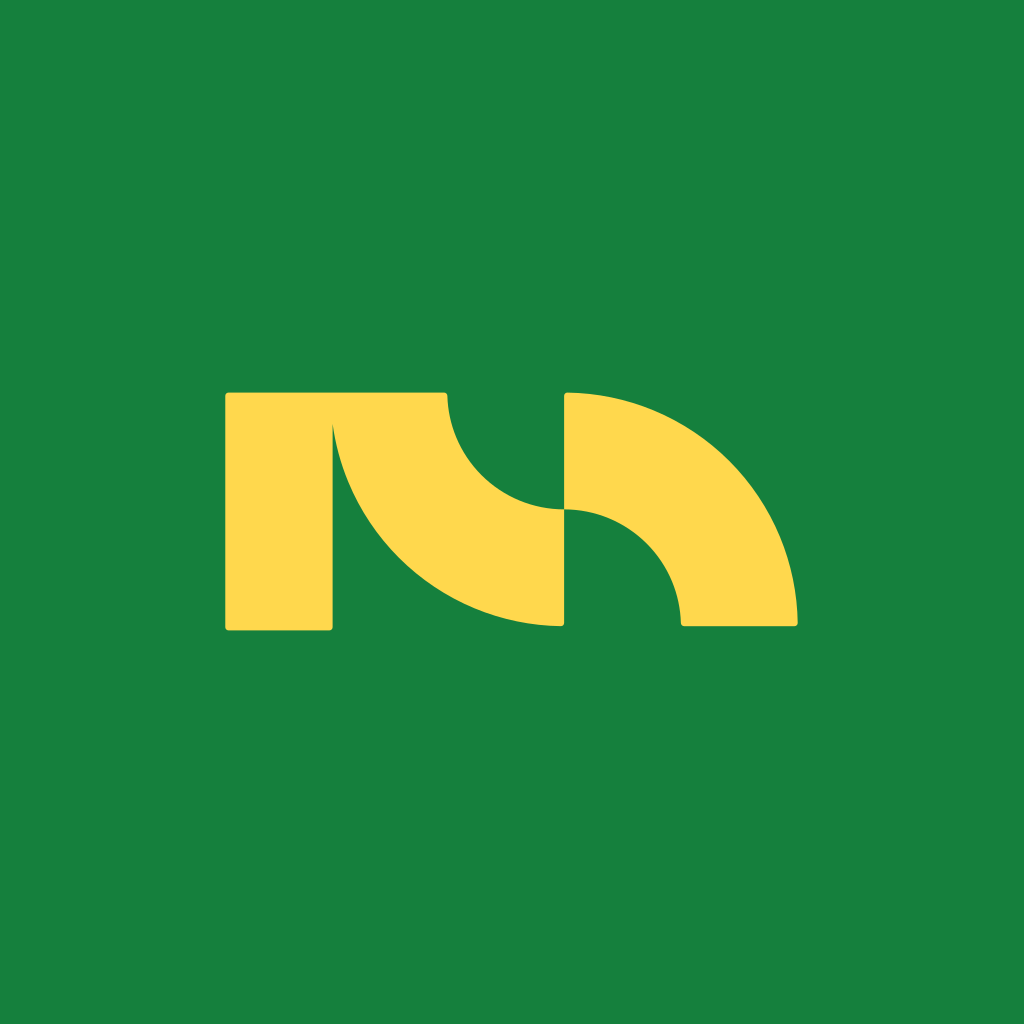
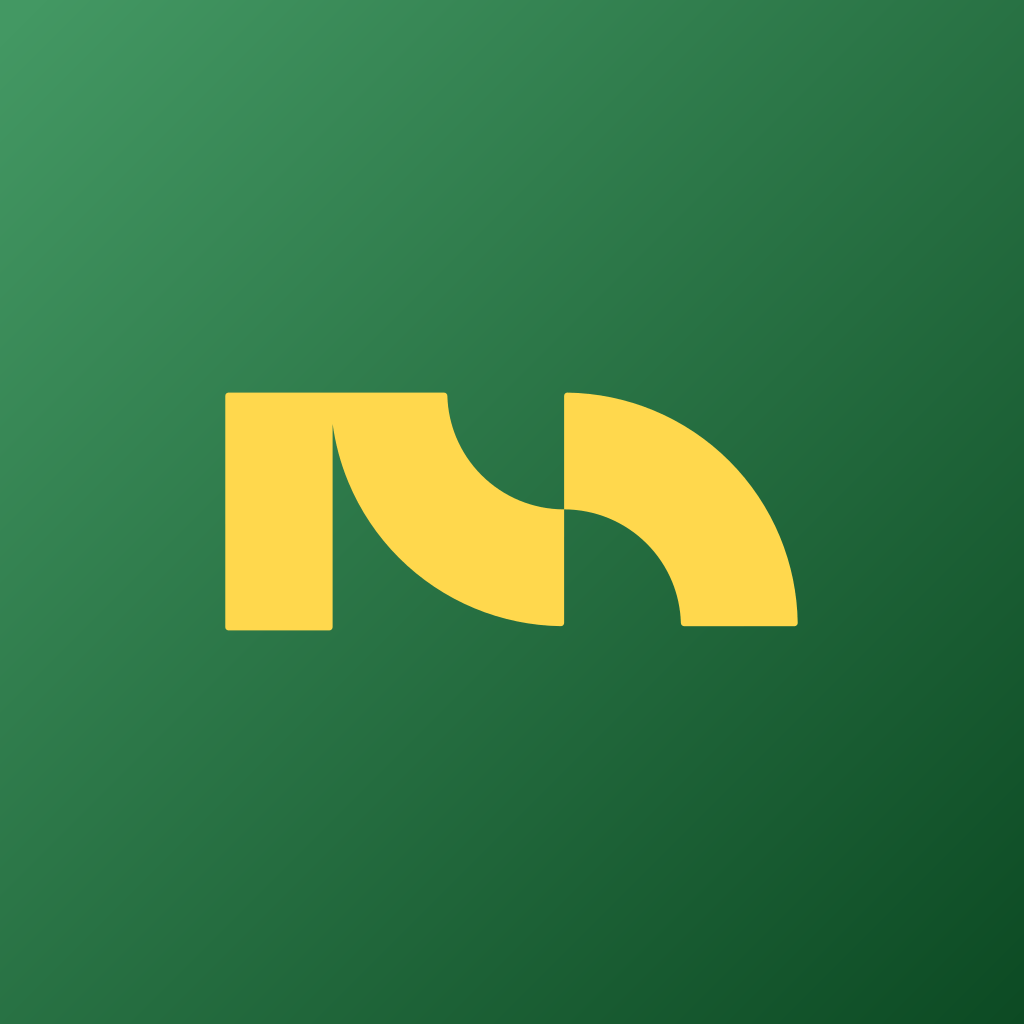
feat(aparencia): bolinhas de duas cores, prévia em wireframe, e o ícone com gradiente
⚠ A GRADE ERA DE ÍCONES, e isso era bonito e ruim para escolher: doze
quadrados com a mesma marca dentro obrigam a comparar doze desenhos
iguais para achar duas cores. A bolinha partida ao meio — em cima a cor
que age, embaixo a do alcançado — diz a mesma coisa num relance, e é a
forma que qualquer pessoa já reconhece de "esta é a cor". Corte
horizontal e não diagonal: assim as duas metades têm o mesmo peso, que é
o que elas têm no aplicativo.

Quatro por linha, doze no total — entraram Cacau e Sálvia, que eram os
dois climas que faltavam: um marrom quente e um verde lavado.

O ÍCONE NÃO SUMIU, SUBIU PARA A PRÉVIA, onde ele é o que de fato é: uma
consequência da escolha, e não o seletor dela.

A PRÉVIA É WIREFRAME DE PROPÓSITO. Ela não tenta parecer o aplicativo:
mostra ONDE cada cor cai. Barra cinza é texto, retângulo cheio é botão,
pastilha é o alcançado, e a faixa de cima é a aurora com o véu por cima —
a mesma composição das telas de verdade. Uma miniatura realista
competiria com a coisa real e perderia; um esqueleto responde a única
pergunta que a tela faz.

E O ÍCONE GANHOU GRADIENTE. Chapado ele ficava plano no meio dos outros
da tela inicial, que hoje são quase todos volumétricos. A rampa é a
diagonal da cor de ação, o mesmo tratamento do painel da Jornada, com a
marca na cor do alcançado — assim o ícone carrega as duas cores da
paleta, e não só uma. As proporções são calculadas duas vezes, no
gerador e na prévia, e isso está anotado nos dois: prévia e arquivo
[…]

diff --git a/src/app/aparencia.tsx b/src/app/aparencia.tsx
@@ -1,35 +1,42 @@
 import React from 'react';
-import { View, Pressable } from 'react-native';
+import { View, Pressable, StyleSheet } from 'react-native';
+import { Image } from 'expo-image';
+import { LinearGradient } from 'expo-linear-gradient';
 import Svg, { Path } from 'react-native-svg';
 import { useStore } from '../logic/store';
-import { trocarIcone, suportaIcone } from '../logic/icone';
+import { trocarIcone } from '../logic/icone';
+import { useAurora } from '../ui/aurora';
 import { D_SIMBOLO, RAZAO_SIMBOLO } from '../ui/marca';
 import { Txt, Row } from '../ui/kit';
-import { TelaInterna, Titulao, Bloco, Aviso } from '../ui/internas';
+import { TelaInterna, Titulao, Bloco } from '../ui/internas';
 import { Icon } from '../ui/Icon';
 import { useTheme } from '../ui/useTheme';
-import { PALETAS, paletaDe, radius, font } from '../theme';
+import { PALETAS, paletaDe, alfa, mix, radius, font } from '../theme';
 import type { Tema } from '../logic/seed';
 
 /* ============================================================
    APARÊNCIA
 
-   ⚠ A ESCOLHA ERA DE DUAS CORES SOLTAS — uma de ação e uma de alcançado
-   — e isso empurrava para a pessoa uma decisão que é de design. As duas
-   juntas dão vinte e cinco combinações, e algumas delas são ruins: cores
-   próximas fazem o botão que leva a algum lugar e a marca do que já foi
-   feito virarem a mesma coisa. Oferecer o erro como opção não é dar
-   liberdade.
+   ⚠ A ESCOLHA ERA DE DUAS CORES SOLTAS, e isso empurrava para a pessoa
+   uma decisão que é de design: ação e alcançado próximas fazem o botão
+   que leva a algum lugar e a marca do que já foi feito virarem a mesma
+   coisa. São doze paletas fechadas agora, cada uma um conjunto já olhado
+   junto.
 
-   Agora são dez paletas fechadas, e a forma de mostrá-las é o ÍCONE. Ele
-   não é ilustração da paleta: é literalmente o arquivo que vai para a
-   tela inicial do telefone se aquela for escolhida. A grade mostra o
-   resultado, e não uma representação dele.
+   ⚠ E A GRADE JÁ FOI DE ÍCONES. Cada opção era o ícone do aplicativo
+   naquela paleta — bonito, e ruim para escolher: doze quadrados com a
+   mesma marca dentro obrigam a comparar doze desenhos iguais para achar
+   duas cores. A bolinha partida ao meio diz a mesma coisa num relance, e
+   é a forma que qualquer pessoa já reconhece de "esta é a cor".
 
-   O ESQUEMA DE COR VEM ANTES, e ganhou "Sistema". Quem instala o app já
-   escolheu claro ou escuro uma vez, nos ajustes do telefone — repetir a
-   pergunta é ignorar a resposta que a pessoa já deu. Escolher aqui passa
-   a ser o gesto de quem quer o contrário do sistema.
+   O ÍCONE NÃO SUMIU: subiu para a prévia, onde ele é o que de fato é —
+   uma consequência da escolha, e não o seletor dela.
+
+   A PRÉVIA É WIREFRAME DE PROPÓSITO. Ela não tenta parecer o aplicativo:
+   tenta mostrar ONDE cada cor cai. Barra cinza é texto, retângulo cheio é
+   botão, pastilha é o alcançado, e a faixa de cima é a aurora com o véu
+   por cima. Uma miniatura realista competiria com a coisa real e perderia;
+   um esqueleto responde a única pergunta que a tela faz.
    ============================================================ */
 
 const MODOS: { id: Tema; nome: string; ic: string }[] = [
@@ -38,38 +45,45 @@ const MODOS: { id: Tema; nome: string; ic: string }[] = [
   { id: 'dark', nome: 'Escuro', ic: 'moon' },
 ];
 
-/* O ÍCONE DESENHADO, e não uma das dez imagens: a grade precisa responder
-   no toque, e carregar dez PNG de um megapixel para mostrar dez
-   quadradinhos seria pagar caro por nada. É o mesmo caminho que gerou os
-   arquivos. */
-function IconeDaPaleta({ fundo, marca, lado }: { fundo: string; marca: string; lado: number }) {
+/* O ÍCONE DESENHADO, com a mesma rampa e as mesmas proporções de
+   scripts/gerar-icones.mjs. Prévia e arquivo precisam ser o mesmo
+   desenho: senão a tela promete um ícone e o telefone mostra outro. */
+function IconeDaPaleta({ acao, marca, lado }: { acao: string; marca: string; lado: number }) {
   const largura = lado * 0.56;
   return (
-    <View style={{
-      width: lado, height: lado, borderRadius: lado * 0.225,
-      backgroundColor: fundo, alignItems: 'center', justifyContent: 'center',
-    }}>
+    <LinearGradient
+      colors={[mix(acao, '#FFFFFF', 0.2), mix(acao, '#000000', 0.42)]}
+      start={{ x: 0, y: 0 }}
+      end={{ x: 1, y: 1 }}
+      style={{
+        width: lado, height: lado, borderRadius: lado * 0.225,
+        alignItems: 'center', justifyContent: 'center',
+      }}
+    >
       <Svg width={largura} height={largura / RAZAO_SIMBOLO} viewBox="0 0 533 222">
         <Path d={D_SIMBOLO} fill={marca} />
       </Svg>
-    </View>
+    </LinearGradient>
   );
+}
+
+/** Uma barra de esqueleto — é o que representa texto na prévia. */
+function Barra({ larg, alt = 7, cor }: { larg: any; alt?: number; cor: string }) {
+  return <View style={{ width: larg, height: alt, borderRadius: alt / 2, backgroundColor: cor }} />;
 }
 
 export default function Aparencia() {
   const { c, isDark } = useTheme();
+  const aurora = useAurora();
   const setTheme = useStore((s) => s.setTheme);
   const setPaleta = useStore((s) => s.setPaleta);
   const tema = useStore((s) => s.S.theme) as Tema;
   const paletaId = useStore((s) => (s.S as any).paleta as string) ?? 'original';
   const paleta = paletaDe(paletaId);
 
-  const [temIcone] = React.useState(() => suportaIcone());
-
   /* A PALETA MUDA NA HORA, E O ÍCONE TENTA. A cor do app não espera o
-     sistema responder: se o aparelho recusar a troca do ícone — iPad com
-     restrição, versão antiga —, o aplicativo já está da cor nova. Ver por
-     que o erro é engolido em src/logic/icone.ts. */
+     sistema responder: se o aparelho recusar a troca do ícone, o
+     aplicativo já está da cor nova. Ver src/logic/icone.ts. */
   const escolher = (id: string) => { setPaleta(id); trocarIcone(id); };
 
   return (
@@ -79,7 +93,61 @@ export default function Aparencia() {
         lead="O Morphi pode ter a sua cara. Escolha uma paleta e ela vai para tudo — inclusive para o ícone na sua tela inicial."
       />
 
-      {/* ---- esquema de cor ---- */}
+      {/* ---- a prévia ---- */}
+      <View style={{
+        borderRadius: radius.xl, overflow: 'hidden',
+        backgroundColor: c.bg1, borderWidth: 1, borderColor: c.line,
+      }}>
+        {/* A faixa de cima é o hero: a aurora da paleta com o véu dela por
+            cima, que é exatamente a composição das telas de verdade. */}
+        <View style={{ height: 132, justifyContent: 'space-between', paddingBottom: 14 }}>
+          <Image source={aurora.hero} style={StyleSheet.absoluteFill} contentFit="cover" />
+          <LinearGradient
+            colors={[alfa(c.veu, 0.5), alfa(c.veu, 0.3), alfa(c.veu, 0.72)]}
+            style={StyleSheet.absoluteFill}
+            pointerEvents="none"
+          />
+          <Row gap={12} style={{ padding: 16, alignItems: 'center' }}>
+            <IconeDaPaleta acao={paleta.acaoClara} marca={paleta.alcancado} lado={40} />
+            <View style={{ gap: 6, flex: 1 }}>
+              <Barra larg={96} cor="rgba(255,255,255,0.85)" />
+              <Barra larg={62} alt={6} cor="rgba(255,255,255,0.45)" />
+            </View>
+          </Row>
+          {/* A pastilha do alcançado sobre a aurora: é onde ela aparece na
+              Home, no botão de check-in. */}
+          <View style={{ paddingHorizontal: 16 }}>
+            <View style={{
+              alignSelf: 'flex-start', backgroundColor: paleta.alcancado,
+              borderRadius: radius.pill, paddingHorizontal: 12, paddingVertical: 6,
+            }}>
+              <Txt v="tag" c={paleta.alcancadoInk} style={{ fontFamily: font.bodyMed }}>Feito hoje</Txt>
+            </View>
+          </View>
+        </View>
+
+        {/* E embaixo a folha, com as duas coisas que a cor de ação faz: o
+            botão cheio e o link. */}
+        <View style={{ padding: 16, gap: 14 }}>
+          <View style={{ gap: 7 }}>
+            <Barra larg="70%" cor={c.bg3} />
+            <Barra larg="46%" cor={c.bg3} />
+          </View>
+          <Row gap={12} style={{ alignItems: 'center' }}>
+            <View style={{
+              backgroundColor: isDark ? paleta.acaoEscura : paleta.acaoClara,
+              borderRadius: radius.pill, paddingHorizontal: 18, paddingVertical: 9,
+            }}>
+              <Txt v="tag" c={isDark ? paleta.inkEscuro : paleta.inkClaro} style={{ fontFamily: font.bodyMed }}>
+                Registrar
+              </Txt>
+            </View>
+            <Txt v="tag" c={isDark ? paleta.acaoEscura : paleta.acaoClara}>Ver a jornada</Txt>
+          </Row>
+        </View>
+      </View>
+
+      {/* ---- claro ou escuro ---- */}
       <Bloco titulo="Claro ou escuro" nota="Pode deixar o Morphi acompanhar o seu telefone — ou decidir por conta própria.">
         <Row gap={10}>
           {MODOS.map((m) => {
@@ -101,42 +169,39 @@ export default function Aparencia() {
       </Bloco>
 
       {/* ---- as paletas ---- */}
-      <Bloco titulo="Escolha a sua cor" nota={`Agora você está no ${paleta.nome}. Toque em qualquer uma para experimentar — dá para trocar quantas vezes quiser.`}>
-        <Row gap={14} style={{ flexWrap: 'wrap' }}>
+      <Bloco
+        titulo="Escolha a sua cor"
+        nota={`Agora você está no ${paleta.nome}. Toque em qualquer uma para experimentar — dá para trocar quantas vezes quiser.`}
+      >
+        <Row style={{ flexWrap: 'wrap' }}>
           {PALETAS.map((p) => {
             const on = p.id === paletaId;
+            const acao = isDark ? p.acaoEscura : p.acaoClara;
             return (
               <Pressable
                 key={p.id}
                 onPress={() => escolher(p.id)}
-                style={({ pressed }) => [{ width: '30%', alignItems: 'center', gap: 8, opacity: pressed ? 0.7 : 1 }]}
+                style={({ pressed }) => [{ width: '25%', alignItems: 'center', paddingVertical: 10, opacity: pressed ? 0.7 : 1 }]}
               >
-                <View>
-                  {/* O ANEL FICA POR FORA DO ÍCONE, e não em cima dele:
-                      uma borda desenhada dentro do quadrado comeria a cor
-                      que a pessoa está justamente tentando ver. */}
-                  <View style={{
-                    padding: 3, borderRadius: 20,
-                    borderWidth: 2, borderColor: on ? c.accent : 'transparent',
-                  }}>
-                    <IconeDaPaleta fundo={p.acaoClara} marca={p.alcancado} lado={64} />
+                {/* A BOLINHA É PARTIDA AO MEIO: em cima a cor que age,
+                    embaixo a do alcançado. Corte na diagonal ficaria mais
+                    bonito e diria menos — na horizontal as duas metades têm
+                    o mesmo peso, que é o que elas têm no aplicativo. */}
+                <View style={{
+                  width: 54, height: 54, borderRadius: 27,
+                  alignItems: 'center', justifyContent: 'center',
+                  borderWidth: 2, borderColor: on ? c.tx : 'transparent',
+                }}>
+                  <View style={{ width: 42, height: 42, borderRadius: 21, overflow: 'hidden' }}>
+                    <View style={{ height: '50%', backgroundColor: acao }} />
+                    <View style={{ height: '50%', backgroundColor: p.alcancado }} />
                   </View>
-                  {on ? (
-                    <View style={{
-                      position: 'absolute', right: -3, top: -3,
-                      width: 22, height: 22, borderRadius: 11,
-                      backgroundColor: c.accent, alignItems: 'center', justifyContent: 'center',
-                      borderWidth: 2, borderColor: c.bg,
-                    }}>
-                      <Icon name="check" size={11} color={c.accentInk} sw={3} />
-                    </View>
-                  ) : null}
                 </View>
                 <Txt
-                  v="caption"
+                  v="micro"
                   c={on ? c.tx : c.tx3}
                   numberOfLines={1}
-                  style={on ? { fontFamily: font.bodyMed } : undefined}
+                  style={[{ marginTop: 7 }, on ? { fontFamily: font.bodyMed } : null]}
                 >
                   {p.nome}
                 </Txt>
@@ -145,14 +210,6 @@ export default function Aparencia() {
           })}
         </Row>
       </Bloco>
-
-      <Aviso
-        ic="palette"
-        titulo={temIcone ? 'O ícone vai junto' : 'O ícone só muda no telefone'}
-        texto={temIcone
-          ? 'O desenho que você tocar aqui é o mesmo que vai aparecer na sua tela inicial. Bonito de ver no meio dos outros aplicativos.'
-          : 'Por aqui o ícone continua o mesmo — ele troca quando o Morphi está instalado no celular. As cores das telas você já vê mudando agora.'}
-      />
 
       <View />
     </TelaInterna>

diff --git a/src/logic/icone.ts b/src/logic/icone.ts
@@ -46,15 +46,16 @@ const modulo = () => {
    nome, e o sistema o procura por esse nome. Uma tradução no meio seria
    um terceiro lugar para errar. */
 
-/** Se este aparelho troca de ícone. Falso no navegador e no Expo Go. */
-export function suportaIcone(): boolean {
-  try {
-    const m = modulo();
-    return !!m?.supportsAlternateIcons;
-  } catch {
-    return false;
-  }
-}
+/* ⚠ NÃO EXISTE MAIS UM `suportaIcone` PARA A TELA PERGUNTAR.
+
+   Ele existia para a Aparência avisar, num aviso, que ali o ícone não
+   trocava — o que é verdade no navegador e no Expo Go, e não é verdade
+   em nenhum telefone com o aplicativo instalado. Era um aviso sobre o
+   ambiente de desenvolvimento aparecendo para quem usa o produto.
+
+   A troca continua sendo silenciosa quando não dá, que é o comportamento
+   certo: a paleta muda do mesmo jeito, e ninguém escolhe uma cor para ler
+   sobre limitações de build. */
 
 /* TROCA E ESQUECE. Devolve se deu certo, para quem quiser saber — e a
    tela de aparência não quer: ela já mudou a cor, que é o que a pessoa

diff --git a/src/theme.ts b/src/theme.ts
@@ -433,6 +433,18 @@ export const PALETAS: Paleta[] = [
     auroraHue: -65, auroraSat: 0.95,
   },
   {
+    id: 'cacau', nome: 'Cacau',
+    acaoClara: '#6F4226', acaoEscura: '#C89268', inkClaro: '#FFFFFF', inkEscuro: '#231206',
+    alcancado: '#FFD84D', alcancadoInk: '#2B2004',
+    auroraHue: 172, auroraSat: 0.8,
+  },
+  {
+    id: 'salvia', nome: 'Sálvia',
+    acaoClara: '#55705C', acaoEscura: '#A8C4AE', inkClaro: '#FFFFFF', inkEscuro: '#101A13',
+    alcancado: '#FF9E6B', alcancadoInk: '#2B1204',
+    auroraHue: -95, auroraSat: 0.55,
+  },
+  {
     /* A ÚNICA SEM MATIZ. Aqui a aurora não gira: ela perde cor, e o
        alcançado fica sendo a única coisa saturada da tela — que é
        exatamente o que esta paleta quer dizer. */

diff --git a/src/ui/aurora.ts b/src/ui/aurora.ts
@@ -55,6 +55,14 @@ const AURORAS: Record<string, { hero: number; insights: number }> = {
     hero: require('../../assets/auroras/hero-menta.webp'),
     insights: require('../../assets/auroras/insights-menta.webp'),
   },
+  'cacau': {
+    hero: require('../../assets/auroras/hero-cacau.webp'),
+    insights: require('../../assets/auroras/insights-cacau.webp'),
+  },
+  'salvia': {
+    hero: require('../../assets/auroras/hero-salvia.webp'),
+    insights: require('../../assets/auroras/insights-salvia.webp'),
+  },
   'grafite': {
     hero: require('../../assets/auroras/hero-grafite.webp'),
     insights: require('../../assets/auroras/insights-grafite.webp'),

diff --git a/PENDENCIAS.md b/PENDENCIAS.md
@@ -89,7 +89,7 @@ lembretes tocando e a leitura de peso chegando, em build de verdade.
 
 ## 9. Os ícones alternativos precisam de prebuild
 
-`expo-alternate-app-icons` entra por projeto nativo: os 10 ícones são
+`expo-alternate-app-icons` entra por projeto nativo: os 12 ícones são
 declarados no plugin do `app.json` e o arquivo nativo é escrito no
 `prebuild`. No EAS isso acontece no próprio build; num dev client local,
 rodar `npx expo prebuild --clean` depois de mexer em `PALETAS`.
